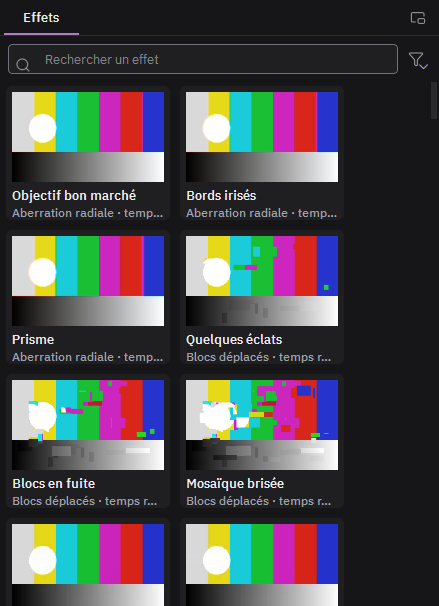
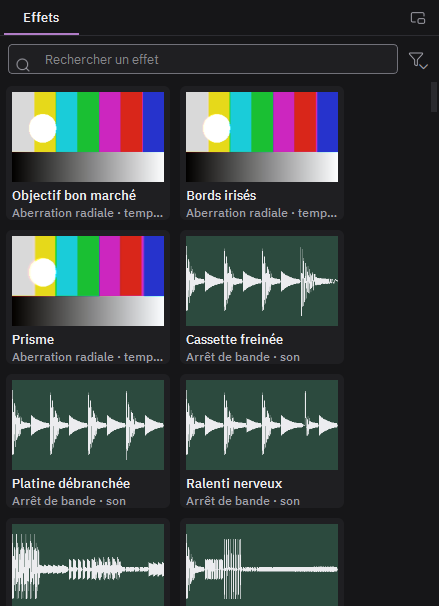
Étape 12, lot 4 : son intact à zéro, exports identiques, lecture fluide

diff --git a/remanence/ressources/guide/index.html b/remanence/ressources/guide/index.html
@@ -61,6 +61,7 @@ td { padding: 6px 16px 6px 0; border-bottom: 1px solid var(--ligne); vertical-al
 <li><a href="#aide-08-exporter">Exporter</a></li>
 <li><a href="#aide-09-comparer">Comparer avant et après</a></li>
 <li><a href="#aide-10-cut">Monter vite dans l&#x27;espace Cut</a></li>
+<li><a href="#aide-11-son">Casser le son</a></li>
 <li><a href="#20-courbes">Courbes, modulateurs et suivi</a></li>
 <li><a href="#catalogue">Catalogue des effets</a></li>
 <li><a href="#raccourcis">Raccourcis clavier</a></li>
@@ -268,6 +269,25 @@ td { padding: 6px 16px 6px 0; border-bottom: 1px solid var(--ligne); vertical-al
 <li><strong>Ajuster un raccord</strong> : Alt+gauche et Alt+droite déplacent d'une image le raccord marqué en pointillés (Alt+Maj : dix images).</li>
 <li><strong>Revue rapide</strong> : lit plus vite les longs plans, à vitesse normale les courts, pour parcourir un montage ou des heures de rushes.</li>
 <li><strong>Découper aux changements de plan</strong> (Ctrl+K, ou clic droit sur un clip) : un long enregistrement est coupé à chaque changement de plan.</li>
+</ol></section>
+<section><h2 id="aide-11-son">Casser le son</h2>
+<figure><img alt="Les effets audio dans la bibliothèque" src="../aide/son.png"></figure>
+<ol>
+<li><strong>Poser un effet audio</strong> : clic droit sur un clip audio (ou sur l'en-tête d'une piste audio), Ajouter un effet, Son. Dans la bibliothèque d'effets, le filtre Son montre les préréglages ; double-cliquez une tuile avec un clip vidéo choisi : l'effet va à son son.</li>
+<li><strong>Régler</strong> : dans l'inspecteur, les réglages de l'effet et son Mélange (0 % : le son d'origine). Les losanges posent des images clés, comme pour l'image ; un modulateur peut piloter un réglage.</li>
+<li><strong>Les six effets</strong> :</li>
+</ol>
+<ul>
+<li><strong>Bégaiement</strong> : un fragment rejoué, comme un disque rayé.</li>
+<li><strong>Bitcrusher</strong> : moins de bits et moins d'échantillons, son granuleux.</li>
+<li><strong>Arrêt de bande</strong> : le son ralentit et descend jusqu'à s'arrêter.</li>
+<li><strong>Inversion par fragments</strong> : des morceaux joués à l'envers.</li>
+<li><strong>Gel</strong> : un grain de son tenu.</li>
+<li><strong>Databending audio</strong> : le son passe par le format MP2, ses données sont abîmées.</li>
+</ul>
+<ol>
+<li><strong>Le son bave avec l'image</strong> : sur un clip qui a une transition datamosh (ou des images clés supprimées), cochez Le son bave dans l'inspecteur. Pendant que l'image du plan d'avant bave, son dernier grain de son tourne et s'efface.</li>
+<li><strong>Autre tirage</strong> donne un autre hasard ; le même tirage redonne toujours le même son, à la lecture comme à l'export.</li>
 </ol></section>
 <section><h2 id="20-courbes">Courbes, modulateurs et suivi</h2>
 <h3>Courbes</h3>

diff --git a/remanence/effets/databending_audio.py b/remanence/effets/databending_audio.py
@@ -2,9 +2,12 @@
 radios numériques et des Video CD), des octets des paquets sont abîmés, puis il est décodé :
 craquements, trous, bouts de son répétés ou métalliques.
 
-Le travail se fait par tranches d'une seconde comptées depuis le début du clip ; chaque tranche
+Le travail se fait par tranches de deux trames MP2 (48 ms) comptées depuis le début du clip,
+encodées avec une trame d'avance pour que le codec enchaîne sans claquer ; chaque tranche
 dépend de son seul contenu, du débit, de la corruption et de la graine (même son à chaque
-lecture). Les tranches calculées sont gardées en mémoire, la lecture les redemande souvent."""
+lecture). Des tranches courtes : la lecture, par blocs de 1024 échantillons, ne fait calculer
+qu'un peu plus que son bloc aux effets placés avant (des tranches d'une seconde faisaient
+dépasser le temps réel à trois effets). Les tranches calculées sont gardées en mémoire."""
 
 from __future__ import annotations
 
@@ -17,12 +20,13 @@ import numpy as np
 
 from remanence.effets import DescriptionEffet, Parametre
 
-TRANCHE = 48000
 TRAME = 1152          # échantillons d'une trame MP2
+TRANCHE = 2 * TRAME
+AVANCE = TRAME        # encodée avant la tranche, puis retirée
 RETARD = 481          # retard du codeur et du décodeur MP2 de FFmpeg, mesuré
 ENTETE = 4            # octets d'en-tête de trame, laissés intacts (la trame reste lisible)
 _cache: OrderedDict = OrderedDict()
-CACHE_MAX = 64
+CACHE_MAX = 512
 
 
 def _encoder(pcm: np.ndarray, debit: int) -> list[bytes]:
@@ -62,8 +66,9 @@ def _decoder(paquets: list[bytes]) -> np.ndarray:
 def _abimer(paquets: list[bytes], corruption: float, graine: int, tranche: int) -> list[bytes]:
     hasard = np.random.default_rng([graine & 0xFFFFFFFF, tranche & 0xFFFFFFFF, 7])
     abimes = []
-    for octets in paquets:
-        if len(octets) > ENTETE + 1 and hasard.random() < corruption:
+    for j, octets in enumerate(paquets):
+        # La trame d'avance reste intacte : elle ne sert qu'à mettre le codec en route.
+        if j > 0 and len(octets) > ENTETE + 1 and hasard.random() < corruption:
             b = bytearray(octets)
             for _ in range(1 + int(hasard.integers(0, 8))):
                 i = int(hasard.integers(ENTETE, len(b)))
@@ -74,7 +79,7 @@ def _abimer(paquets: list[bytes], corruption: float, graine: int, tranche: int) 
 
 
 def _tranche(lire, k: int, debit: int, corruption: float, graine: int) -> np.ndarray:
-    entree = lire(k * TRANCHE, TRANCHE + RETARD + TRAME)
+    entree = lire(k * TRANCHE - AVANCE, AVANCE + TRANCHE + RETARD + TRAME)
     empreinte = hashlib.sha1(entree.tobytes()).hexdigest()
     cle = (empreinte, debit, round(corruption, 4), graine, k)
     if cle in _cache:
@@ -82,7 +87,7 @@ def _tranche(lire, k: int, debit: int, corruption: float, graine: int) -> np.nda
         return _cache[cle]
     pcm = (np.clip(entree, -1, 1) * 32767).astype(np.int16)
     sortie = _decoder(_abimer(_encoder(pcm, debit), corruption, graine, k))
-    sortie = sortie[RETARD:RETARD + TRANCHE]
+    sortie = sortie[AVANCE + RETARD:AVANCE + RETARD + TRANCHE]
     if len(sortie) < TRANCHE:
         sortie = np.pad(sortie, ((0, TRANCHE - len(sortie)), (0, 0)))
     _cache[cle] = sortie

diff --git a/tests/test_son.py b/tests/test_son.py
@@ -88,7 +88,7 @@ def test_export_avec_effet_audio(medias, tmp_path):
     seq = projet.sequence
     r1 = exporter(projet, seq, tmp_path / "a.mov")
     r2 = exporter(projet, seq, tmp_path / "b.mov")
-    assert r1.audio != "copie"
+    assert r1.audio != "recopié sans réencodage"
 
     def pcm(chemin):
         with av.open(str(chemin)) as c:
@@ -149,3 +149,67 @@ def test_le_son_bave_avec_l_image(medias):
     blocs = [777, 9001, 333]
     blocs.append(len(bave) - sum(blocs))
     assert np.array_equal(_son(projet, blocs=blocs), bave)
+
+
+NEUTRES = {"bitcrusher": {"bits": 16, "reduction": 1}, "begaiement": {"probabilite": 0},
+           "inversion_fragments": {"probabilite": 0}, "gel": {"probabilite": 0},
+           "arret_bande": {"probabilite": 0}}
+
+
+def _paquets_audio(chemin):
+    with av.open(str(chemin)) as c:
+        return [bytes(p) for p in c.demux(audio=0) if p.size]
+
+
+@pytest.mark.parametrize("cle", AUDIO)
+def test_effet_audio_a_zero_son_recopie(medias, tmp_path, cle):
+    """Validation de l'étape 12 : réglé à zéro (ou mélange nul), un effet audio laisse le son
+    intact, et l'export recopie le son d'origine, au bit près."""
+    projet, clip = _projet(medias)
+    e = nouvel_effet(cle)
+    if cle in NEUTRES:
+        e.params.update(NEUTRES[cle])
+    else:
+        e.opacite = 0.0  # le databending repasse toujours par le codec : mélange nul
+    clip.effets.append(e)
+    seq = projet.sequence
+    r = exporter(projet, seq, tmp_path / "zero.mov")
+    assert r.audio == "recopié sans réencodage"
+    assert _paquets_audio(tmp_path / "zero.mov") == _paquets_audio(medias["prores_hq"])
+
+
+def test_six_effets_exportes_deux_fois(medias, tmp_path):
+    """Validation : les six effets empilés (graines, hasard, codec) donnent deux exports au
+    son identique."""
+    projet, clip = _projet(medias)
+    for cle in AUDIO:
+        e = nouvel_effet(cle)
+        if cle in ("gel", "arret_bande"):
+            e.params["intervalle"] = 0.5
+        clip.effets.append(e)
+    seq = projet.sequence
+    exporter(projet, seq, tmp_path / "a.mov")
+    exporter(projet, seq, tmp_path / "b.mov")
+    a, b = _paquets_audio(tmp_path / "a.mov"), _paquets_audio(tmp_path / "b.mov")
+    assert a == b and a != _paquets_audio(medias["prores_hq"])
+
+
+def test_lecture_fluide_avec_trois_effets(medias):
+    """Validation : trois effets audio calculés par blocs de 1024 échantillons (ceux de la
+    lecture), bien plus vite que le temps réel."""
+    import time
+    projet, clip = _projet(medias)
+    for cle in ("begaiement", "gel", "databending_audio"):
+        clip.effets.append(nouvel_effet(cle))
+    seq = projet.sequence
+    n = int(seq.duree() * 48000 / float(seq.fraction_cadence))
+    c = Compositeur(projet)
+    try:
+        c.audio(seq, 0, 1024)
+        t = time.perf_counter()
+        for debut in range(0, n, 1024):
+            c.audio(seq, debut, 1024)
+        duree = time.perf_counter() - t
+    finally:
+        c.fermer()
+    assert duree < 0.5 * n / 48000, f"{duree:.3f} s pour {n / 48000:.2f} s de son"

diff --git a/remanence/rendu/son.py b/remanence/rendu/son.py
@@ -44,7 +44,7 @@ def chaine(lire: Lecteur, effets_a: Callable[[int], list], par_image: float) -> 
         courant = lire
         for e in effets_a(f):
             d = EFFETS.get(e.type)
-            if d is None or not d.audio or not e.actif:
+            if d is None or not d.audio or not e.actif or (d.neutre and d.neutre(e.params)):
                 continue
             courant = _avec_melange(courant, d.son(courant, e.params, e.graine, FREQUENCE),
                                     e.opacite)
@@ -109,6 +109,18 @@ def echantillons(ms: float) -> int:
 
 GRAIN_BAVE_MS = 60
 BAVE_MAX_MS = 2000
+
+
+def intact(effet, seq) -> bool:
+    """L'effet audio laisse-t-il le son intact sur toute sa durée ? Coupé, mélange nul ou
+    réglages neutres, sans image clé ni modulateur qui puisse les changer."""
+    from remanence.effets import modulateurs
+    d = EFFETS.get(effet.type)
+    if d is None or not d.audio or not effet.actif:
+        return True
+    if effet.cles or modulateurs.cibles_de(seq, effet.id):
+        return False
+    return effet.opacite <= 0 or bool(d.neutre and d.neutre(effet.params))
 
 
 def bave(lire: Lecteur, plages: list[tuple[int, int]]) -> Lecteur:

diff --git a/remanence/rendu/export.py b/remanence/rendu/export.py
@@ -22,6 +22,7 @@ from remanence.media.lecteur import FREQUENCE_MIXAGE, LecteurPaquets
 from remanence.media.sonde import Couleur, InfosVideo, analyser
 from remanence.projet.modele import Media, Projet, Sequence
 from remanence.rendu.composition import Compositeur, couches, identite
+from remanence.rendu import son
 from remanence.rendu.conformite import Verification, verifier
 from remanence.rendu.couleur import depuis_rvba
 
@@ -196,7 +197,7 @@ def _plan_audio(projet: Projet, seq: Sequence, debut: int, fin: int):
     if not clips:
         return None, None
     bave = {c.lien for _, c in seq.tous_les_clips() if c.son_bave and c.lien}
-    if len(clips) == 1 and clips[0][0].niveau == 1.0 and not clips[0][0].effets             and not clips[0][1].effets and clips[0][1].lien not in bave:
+    if len(clips) == 1 and clips[0][0].niveau == 1.0             and all(son.intact(e, seq) for e in clips[0][0].effets + clips[0][1].effets)             and clips[0][1].lien not in bave:
         # Un effet audio sur le clip ou sa piste : le son est recalculé.
         c = clips[0][1]
         m = projet.medias.get(c.media_id)

diff --git a/remanence/effets/prereglages.py b/remanence/effets/prereglages.py
@@ -34,10 +34,18 @@ class Prereglage:
 
     @property
     def description(self) -> str:
-        """« Effet · temps réel » ou « Effet · moteur codec », ou la liste d'une pile."""
+        """« Effet · temps réel », « Effet · moteur codec », « Effet · son », ou la liste
+        d'une pile."""
         connus = [EFFETS[e["type"]] for e in self.effets if e["type"] in EFFETS]
         moteurs = {d.moteur for d in connus}
-        moteur = "moteur codec" if "codec" in moteurs else             "flux optique" if "flux" in moteurs else "temps réel"
+        if "codec" in moteurs:
+            moteur = "moteur codec"
+        elif "flux" in moteurs:
+            moteur = "flux optique"
+        elif moteurs == {"audio"}:
+            moteur = "son"
+        else:
+            moteur = "temps réel"
         return " + ".join(d.nom for d in connus) + " · " + moteur
 
     def nouveaux_effets(self) -> list[Effet]:

diff --git a/remanence/effets/begaiement.py b/remanence/effets/begaiement.py
@@ -26,7 +26,7 @@ def son(lire, valeurs, graine, frequence):
 
 
 DESCRIPTION = DescriptionEffet(
-    cle="begaiement", nom="Bégaiement", famille="Son", moteur="audio", son=son,
+    cle="begaiement", nom="Bégaiement", famille="Son", moteur="audio", neutre=lambda v: v.get("probabilite", 100) <= 0 or v.get("repetitions", 4) <= 1, son=son,
     prereglages={"Disque rayé": {"fragment": 60, "repetitions": 6, "probabilite": 100},
                  "Sampler nerveux": {"fragment": 30, "repetitions": 8, "probabilite": 50},
                  "Hoquet": {"fragment": 200, "repetitions": 2, "probabilite": 70}},

diff --git a/remanence/effets/arret_bande.py b/remanence/effets/arret_bande.py
@@ -35,7 +35,7 @@ def son(lire, valeurs, graine, frequence):
 
 
 DESCRIPTION = DescriptionEffet(
-    cle="arret_bande", nom="Arrêt de bande", famille="Son", moteur="audio", son=son,
+    cle="arret_bande", nom="Arrêt de bande", famille="Son", moteur="audio", neutre=lambda v: v.get("probabilite", 100) <= 0, son=son,
     prereglages={"Cassette freinée": {"intervalle": 2, "duree": 600, "courbe": 1},
                  "Platine débranchée": {"intervalle": 4, "duree": 1500, "courbe": 2},
                  "Ralenti nerveux": {"intervalle": 0.8, "duree": 250, "courbe": 0.6,

diff --git a/remanence/effets/gel.py b/remanence/effets/gel.py
@@ -35,7 +35,7 @@ def son(lire, valeurs, graine, frequence):
 
 
 DESCRIPTION = DescriptionEffet(
-    cle="gel", nom="Gel", famille="Son", moteur="audio", son=son,
+    cle="gel", nom="Gel", famille="Son", moteur="audio", neutre=lambda v: v.get("probabilite", 100) <= 0, son=son,
     prereglages={"Note tenue": {"intervalle": 3, "duree": 800, "grain": 60},
                  "Glace fine": {"intervalle": 1, "duree": 300, "grain": 20},
                  "Bourdon": {"intervalle": 4, "duree": 2500, "grain": 120}},

diff --git a/remanence/effets/inversion_fragments.py b/remanence/effets/inversion_fragments.py
@@ -21,7 +21,7 @@ def son(lire, valeurs, graine, frequence):
 
 
 DESCRIPTION = DescriptionEffet(
-    cle="inversion_fragments", nom="Inversion par fragments", famille="Son", moteur="audio",
+    cle="inversion_fragments", nom="Inversion par fragments", famille="Son", moteur="audio", neutre=lambda v: v.get("probabilite", 50) <= 0,
     son=son,
     prereglages={"Envers aléatoire": {"fragment": 150, "probabilite": 50},
                  "Bribes à rebours": {"fragment": 60, "probabilite": 70},

diff --git a/remanence/effets/__init__.py b/remanence/effets/__init__.py
@@ -66,6 +66,9 @@ class DescriptionEffet:
     # Moteur audio : son(lire, valeurs, graine, fréquence) rend un lecteur du son traité (voir
     # rendu/son.py). Sur les clips et les pistes audio seulement.
     son: object = None
+    # Effet audio : neutre(valeurs) vrai quand ces réglages laissent le son intact (il est
+    # alors sauté, et l'export peut recopier le son d'origine).
+    neutre: object = None
 
     @property
     def audio(self) -> bool:

diff --git a/scripts/captures_aide.py b/scripts/captures_aide.py
@@ -125,6 +125,10 @@ def main():
     w.timeline.vue._choisir({premier.id})
     attendre(app, delai=0.6)
     photo(w._docks["medias"], "bibliotheque.png")
+    w.bibliotheque._filtrer("Son")
+    attendre(app, delai=0.8)
+    photo(w._docks["medias"], "son.png")
+    w.bibliotheque._filtrer("")
     w._docks["analyse"].show()
     attendre(app, lambda: w.panneau_datamosh.bande.analyse is not None, 30)
     photo(w._docks["analyse"], "compression.png")
